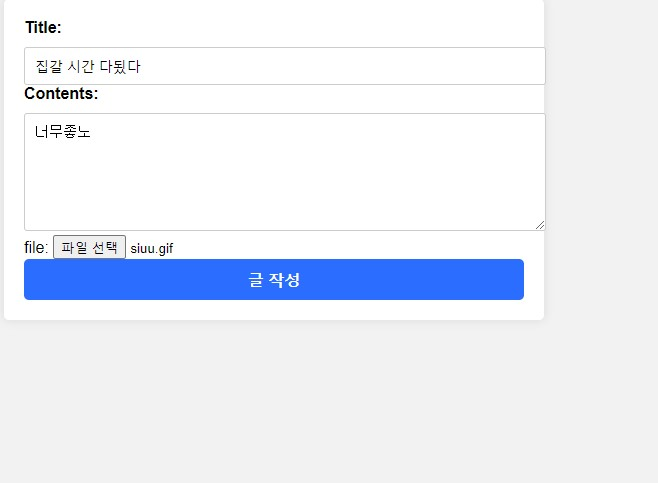
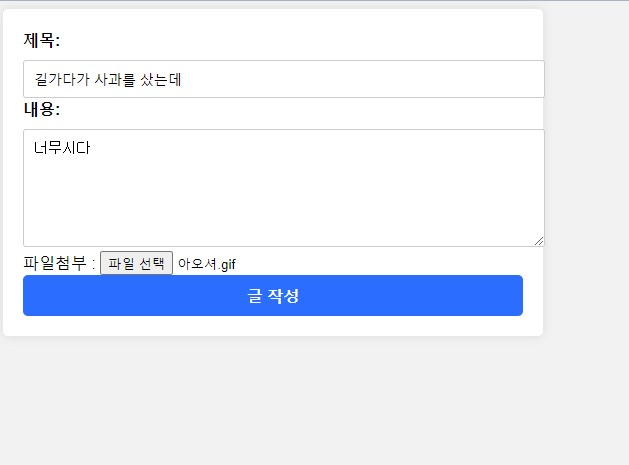
1130
1210

diff --git a/Board_mine/src/main/resources/templates/detail.html b/Board_mine/src/main/resources/templates/detail.html
@@ -2,8 +2,63 @@
 <html lang="en" xmlns:th="http://www.thymeleaf.org">
 <head>
     <meta charset="UTF-8">
-    <title>detail</title>
+    <title>게시글 상세</title>
     <script src="https://code.jquery.com/jquery-3.6.3.min.js" integrity="sha256-pvPw+upLPUjgMXY0G+8O0xUf+/Im1MZjXxxgOcBQBXU=" crossorigin="anonymous"></script>
+    <style>
+        body {
+            background-color: white;
+            color: black;
+            font-family: Arial, sans-serif;
+        }
+        table {
+            border-collapse: collapse;
+            width: 70%;
+            margin: 20px auto;
+            border: 1px solid black;
+        }
+        th {
+            background-color: #006bff;
+            color: #fff;
+            padding: 10px;
+            border: 1px solid black;
+        }
+        td {
+            padding: 10px;
+            border: 1px solid black;
+        }
+        button {
+            color: #fff;
+            background-color: #006bff;
+            border: 1px solid black;
+            padding: 8px 16px;
+            text-align: center;
+            text-decoration: none;
+            display: inline-block;
+            font-size: 14px;
+            margin: 4px 2px;
+            cursor: pointer;
+        }
+        #comment-write {
+            margin-bottom: 10px;
+        }
+        #comment-write input[type=text] {
+            width: 100%;
+            padding: 8px 16px;
+            margin: 8px 0;
+            display: inline-block;
+            border: 1px solid #ccc;
+            box-sizing: border-box;
+        }
+        #comment-write-btn {
+            width: 5%;
+            background-color: #4CAF50;
+            color: white;
+            padding: 10px 16px;
+            margin: 8px 0;
+            border: none;
+            cursor: pointer;
+        }
+    </style>
 </head>
 <body>
 <table>

diff --git a/Board_mine/src/main/resources/templates/paging.html b/Board_mine/src/main/resources/templates/paging.html
@@ -2,13 +2,21 @@
 <html lang="en" xmlns:th="http://www.thymeleaf.org">
 <head>
     <meta charset="UTF-8">
-    <title>paging</title>
+    <title>게시판</title>
+    <style>
+        table {
+            border: 1px solid black;
+            border-collapse: collapse;
+        }
+        th, td {
+            border: 1px solid black;
+            padding: 10px;
+        }
+    </style>
 </head>
 <body>
-
 <table>
     <button onclick="create()">글쓰기</button>
-
     <tr th:each="board: ${boardList}">
         <td th:text="${board.getId}"></td>
         <td><a th:href="@{${board.getId}|(page = ${boardList.number + 1})}" th:text="${board.getTitle()}"></a></td>
@@ -20,23 +28,15 @@
     </tr>
 </table>
 <a th:href="@{/board/paging(page=1)}">처음</a>
-
 <a th:href="${boardList.first} ? '#' : @{/board/paging(page=${boardList.number})}" th:unless="${boardList.first} and not boardList.empty">이전</a>
-
 <span th:each="page: ${#numbers.sequence(startPage, endPage)}">
-
     <span th:if="${page == boardList.number + 1 and not boardList.empty}" th:text="${page}"></span>
-
     <span th:unless="${page == boardList.number + 1 or boardList.empty}">
         <a th:href="@{/board/paging(page=${page})}" th:text="${page}"></a>
     </span>
 </span>
-
-
 <a th:href="${boardList.last} ? '#' : @{/board/paging(page=${boardList.number + 2})}" th:unless="${boardList.last} and not boardList.empty">다음</a>
-
 <a th:href="@{/board/paging(page=${boardList.totalPages})}">마지막</a>
-
 </body>
 <script>
     const create = () => {
@@ -44,3 +44,4 @@
     }
 </script>
 </html>
+

diff --git a/Board_mine/src/main/resources/templates/main.html b/Board_mine/src/main/resources/templates/main.html
@@ -3,12 +3,31 @@
 <head>
     <meta charset="UTF-8">
     <title>메인</title>
+    <style>
+        body {
+            background-color: #f0f0f0;
+            font-family: Arial, sans-serif;
+            text-align: center;
+        }
+        button {
+            color: #fff; /* 버튼의 글자색을 흰색으로 변경합니다. */
+            background-color: #006bff; /* 버튼의 배경색을 파란색으로 변경합니다. */
+            padding: 14px 20px;
+            margin: 8px 2px;
+            border: 2px solid black;
+            cursor: pointer;
+            width: 20%;
+        }
+        button:hover {
+            background-color: #0056b3; /* 버튼에 마우스를 올렸을 때의 배경색을 약간 어두운 파란색으로 변경합니다. */
+        }
+    </style>
 </head>
 <body>
 <br>
 <br>
-<button onclick="create()">쓰러 가볼까?</button>
-<button onclick="paging()">게시판으로 가자</button>
+<button onclick="create()">글 작성</button>
+<button onclick="paging()">게시판</button>
 </body>
 <script>
     const create = () => {

diff --git a/Board_mine/src/main/resources/templates/create.html b/Board_mine/src/main/resources/templates/create.html
@@ -2,7 +2,7 @@
 <html lang="en">
 <head>
     <meta charset="UTF-8">
-    <title>게시판</title>
+    <title>게시글 작성</title>
     <style>
         body {
             font-family: Arial, sans-serif;
@@ -56,13 +56,13 @@
 
 <body>
 <form action="/board/save" method="post" enctype="multipart/form-data">
-    <label for="title">Title:</label>
+    <label for="title">제목:</label>
     <input type="text" name="title" id="title">
 
-    <label for="contents">Contents:</label>
+    <label for="contents">내용:</label>
     <textarea name="contents" id="contents" cols="30" rows="6"></textarea>
 
-    file: <input type="file" name="files" multiple><br>
+    파일첨부 : <input type="file" name="files" multiple><br>
 
     <input type="submit" value="글 작성">
 </form>

diff --git a/Board_mine/src/main/resources/templates/edit.html b/Board_mine/src/main/resources/templates/edit.html
@@ -67,7 +67,7 @@
     <label for="Contents">내용:</label>
     <input type="text" name="Contents" id="Contents" th:value="${board.Contents}">
 
-
+    파일첨부 : <input type="file" name="files" multiple><br>
 
 
     <input type="submit" value="수정">

diff --git a/Board_mine/src/main/java/com/example/demo2/Services/BServices.java b/Board_mine/src/main/java/com/example/demo2/Services/BServices.java
@@ -19,6 +19,8 @@ import java.nio.file.Files;
 import java.nio.file.Path;
 import java.nio.file.Paths;
 import java.time.LocalDateTime;
+import java.util.Collections;
+import java.util.List;
 import java.util.Optional;
 import java.util.UUID;
 
@@ -30,69 +32,69 @@ public class BServices {
     private final BRepostit repostit;
     private final FReposit fReposit;
 
-    private final String filePath =  "C:/Users/G/Desktop/DB_Files/";
+    private final String filePath = "C:/Users/G/Desktop/DB_Files/";
 
     @Transactional
-    public void save(BDto dto, MultipartFile[] files) throws IOException{ // -- DB에 게시글 & 파일 저장
+    public void save(BDto dto, MultipartFile[] files) throws IOException { // -- DB에 게시글 & 파일 저장
 
-        for(MultipartFile file : files) {
-                Path uploadpath = Paths.get(filePath);
+        for (MultipartFile file : files) {
+            Path uploadpath = Paths.get(filePath);
 
-                //-- 경로 부재시 폴더 생성
-                if(!Files.exists(uploadpath)){
-                    Files.createDirectories(uploadpath);}
+            //-- 경로 부재시 폴더 생성
+            if (!Files.exists(uploadpath)) {
+                Files.createDirectories(uploadpath);
+            }
 
-                if(!file.isEmpty()){
-                    // -- 파일명 추출
-                    String originFileName = file.getOriginalFilename();
+            if (!file.isEmpty()) {
+                // -- 파일명 추출
+                String originFileName = file.getOriginalFilename();
 
-                    // -- 확장자 추출
-                    assert originFileName != null;
-                    String formatType = originFileName.substring(originFileName.lastIndexOf("."));
+                // -- 확장자 추출
+                assert originFileName != null;
+                String formatType = originFileName.substring(originFileName.lastIndexOf("."));
 
-                   // originFileName = originFileName.substring(0, originFileName.lastIndexOf("."));
+                // originFileName = originFileName.substring(0, originFileName.lastIndexOf("."));
 
-                    System.out.println("파일명: " + originFileName);
-                    System.out.println("확장자: " + formatType);
+                System.out.println("파일명: " + originFileName);
+                System.out.println("확장자: " + formatType);
 
-                    //-- UUID 생성
-                    String uuid = UUID.randomUUID().toString();
+                //-- UUID 생성
+                String uuid = UUID.randomUUID().toString();
 
-                    String path = filePath + uuid + originFileName;
+                String path = filePath + uuid + originFileName;
 
-                    file.transferTo(new File(path)); // -- 경로에 파일을 저장(파일이름: uuid+원본이름)
+                file.transferTo(new File(path)); // -- 경로에 파일을 저장(파일이름: uuid+원본이름)
 
-                    dto.setCreateTime(LocalDateTime.now());
-                    Long id = repostit.save(dto.toE()).getId(); // -- 저장후 pk 받아오기
-                    Board board = repostit.findById(id).get();
+                dto.setCreateTime(LocalDateTime.now());
+                Long id = repostit.save(dto.toE()).getId(); // -- 저장후 pk 받아오기
+                Board board = repostit.findById(id).get();
 
-                    BoardFile boardFile = BoardFile.builder() // -- 파일 객체 생성
-                            .filePath(filePath)
-                            .fileName(originFileName)
-                            .uuid(uuid)
-                            .fileType(formatType)
-                            .fileSize(file.getSize())
-                            .board(board)
-                            .build();
+                BoardFile boardFile = BoardFile.builder() // -- 파일 객체 생성
+                        .filePath(filePath)
+                        .fileName(originFileName)
+                        .uuid(uuid)
+                        .fileType(formatType)
+                        .fileSize(file.getSize())
+                        .board(board)
+                        .build();
 
-                    fReposit.save(boardFile);
-                }
-                else { // -- 파일첨부 X 일떄
-                    dto.setCreateTime(LocalDateTime.now());
-                    System.out.println("파일이 엄서요");
-                    repostit.save(dto.toE());
-                }
+                fReposit.save(boardFile);
+            } else { // -- 파일첨부 X 일떄
+                dto.setCreateTime(LocalDateTime.now());
+                System.out.println("파일이 엄서요");
+                repostit.save(dto.toE());
+            }
         }
         System.out.println("저장완료");
     }
 
 
     ////
-    public Page<BDto> paging(Pageable pageable){
+    public Page<BDto> paging(Pageable pageable) {
         int page = pageable.getPageNumber() - 1; // - 시작 인덱스
         int size = 5; // -- 페이지 표시 게시물 개수
 
-        Page<Board> boards = repostit.findAll(PageRequest.of(page,size)); ///-- 전체게시물 불러오기(정렬및 조건에 맞게[page, size]출력)
+        Page<Board> boards = repostit.findAll(PageRequest.of(page, size)); ///-- 전체게시물 불러오기(정렬및 조건에 맞게[page, size]출력)
 
         return boards.map(board -> new BDto( // -- 람다 人
                 board.getId(),
@@ -102,22 +104,57 @@ public class BServices {
                 board.getUpdateTime()));
     }
 
-    public BDto findEntity(Long id){ // -- 컨트롤러에서 리포지토리 기능 전가
+    public BDto findEntity(Long id) { // -- 컨트롤러에서 리포지토리 기능 전가
         Optional<Board> board = repostit.findById(id);
         return BDto.boardDetail(board.get());
     }
 
     @Transactional // -- Repository 기능 부여
-    public void deletecontent(Long id){
+    public void deletecontent(Long id) {
         repostit.deleteById(id);
     }
 
     @Transactional
-    public void update(Long id, BDto dto) { // -- 해당 게시글 식별후 수정및 저장
-        Board board = repostit.findById(id).orElseThrow(()->new IllegalArgumentException("해당 게시글이 없습니다. id = "+id));
-        board.update(dto.getTitle(),dto.getContents(),board.getCreateTime());
+    public void update(Long id, BDto dto, MultipartFile[] files) throws IOException { // -- 해당 게시글 식별후 수정및 저장
+        Board board = repostit.findById(id).orElseThrow(() -> new IllegalArgumentException("해당 게시글이 없습니다. id = " + id));
+        List<BoardFile> board_file = fReposit.findByBoardId(id);
+        fReposit.deleteAll(board_file);
 
-        repostit.save(board);
+        for (MultipartFile file : files) {
+
+            if (!file.isEmpty()) {
+                // -- 파일명 추출
+                String originFileName = file.getOriginalFilename();
+
+                // -- 확장자 추출
+                assert originFileName != null;
+                String formatType = originFileName.substring(originFileName.lastIndexOf("."));
+
+                System.out.println("파일명: " + originFileName);
+                System.out.println("확장자: " + formatType);
+
+                //-- UUID 생성
+                String uuid = UUID.randomUUID().toString();
+
+                String path = filePath + uuid + originFileName;
+
+                file.transferTo(new File(path)); // -- 경로에 파일을 저장(파일이름: uuid+원본이름)
+
+
+                BoardFile boardFile = BoardFile.builder() // -- 파일 객체 생성
+                        .filePath(filePath)
+                        .fileName(originFileName)
+                        .uuid(uuid)
+                        .fileType(formatType)
+                        .fileSize(file.getSize())
+                        .board(board)
+                        .build();
+
+                fReposit.save(boardFile);
+            }
+            board.update(dto.getTitle(), dto.getContents(), board.getCreateTime());
+
+            repostit.save(board);
+        }
     }
-
 }

diff --git a/Board_mine/src/main/java/com/example/demo2/Controllers/BController.java b/Board_mine/src/main/java/com/example/demo2/Controllers/BController.java
@@ -76,8 +76,8 @@ public class BController {
 
 
     @PostMapping("edit/{id}") // -- 게사글 수정 완료
-    public String update(@PathVariable Long id,@ModelAttribute BDto dto){
-        services.update(id,dto);
+    public String update(@PathVariable Long id,@ModelAttribute BDto dto, @RequestParam MultipartFile[] files) throws IOException{
+        services.update(id,dto,files);
         System.out.println("○ 게시글 수정 ○");
 
         return "redirect:/board/paging";

diff --git a/Board_mine/src/main/java/com/example/demo2/Controllers/CommentController.java b/Board_mine/src/main/java/com/example/demo2/Controllers/CommentController.java
@@ -7,9 +7,7 @@ import lombok.RequiredArgsConstructor;
 import org.springframework.http.HttpStatus;
 import org.springframework.http.ResponseEntity;
 import org.springframework.stereotype.Controller;
-import org.springframework.web.bind.annotation.ModelAttribute;
-import org.springframework.web.bind.annotation.PostMapping;
-import org.springframework.web.bind.annotation.RequestMapping;
+import org.springframework.web.bind.annotation.*;
 
 import java.util.List;
 
